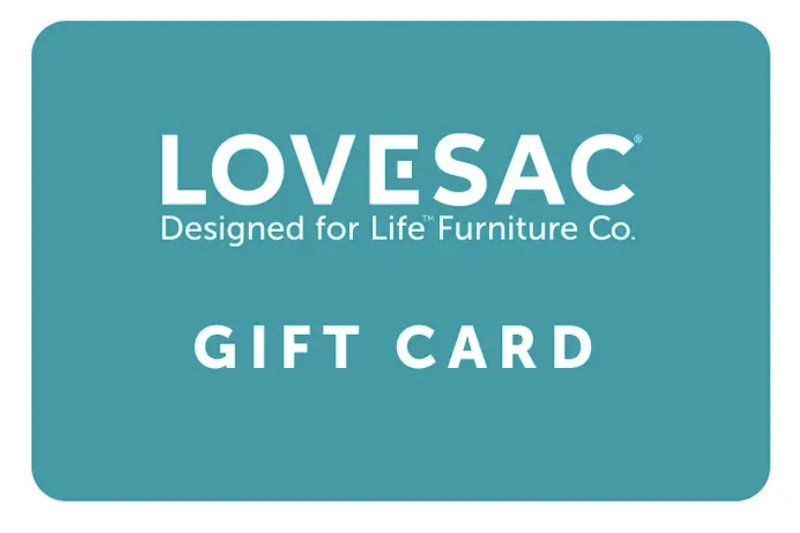
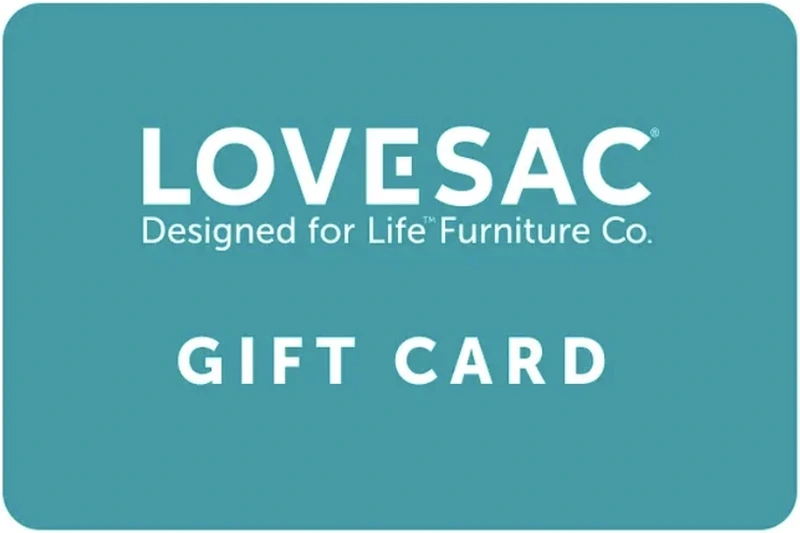
Match eGift card frame to the proposed concepts; label concepts as proposals
Crops the baked-in white margin out of the current eGift card image so it
fills its frame edge-to-edge like the birthday/wedding/graduation cards,
giving both the same border treatment. Adds a "Proposed concepts — not live
on Lovesac.com" label above the three redesigns so it's clear those are a
proposal, not the current eGift card.

Changed region(s): [[0.0, 0.0, 1.0, 1.0], [0.1562, 0.2101, 0.8438, 0.4803], [0.2188, 0.6004, 0.7812, 0.7205]]

diff --git a/work/lovesac-case-study-2.html b/work/lovesac-case-study-2.html
@@ -1167,7 +1167,8 @@
     <div class="nav-label before" style="margin-top:24px;"><span class="sw"></span>Current eGift card</div>
     <div class="card-frame gift" style="max-width:340px;"><img src="/images/lovesac-egift-card.webp" width="800" height="533" loading="lazy" decoding="async" alt="Lovesac's current eGift card design: a solid teal background with the white Lovesac wordmark and 'Gift Card' text, no occasion-specific options."></div>
 
-    <div class="card-compare triple" style="margin-top:24px;">
+    <div class="nav-label after" style="margin-top:24px;"><span class="sw"></span>Proposed concepts &mdash; not live on Lovesac.com</div>
+    <div class="card-compare triple" style="margin-top:12px;">
       <div class="card-compare-col">
         <div class="nav-label after"><span class="sw"></span>Birthday</div>
         <div class="card-frame gift"><img src="/images/lovesac-gift-card-birthday.webp" width="800" height="533" loading="lazy" decoding="async" alt="In-store Lovesac gift card concept for birthdays, illustrated with a layered cake, lit candles, balloons, and wrapped gifts in a soft watercolor style."></div>
